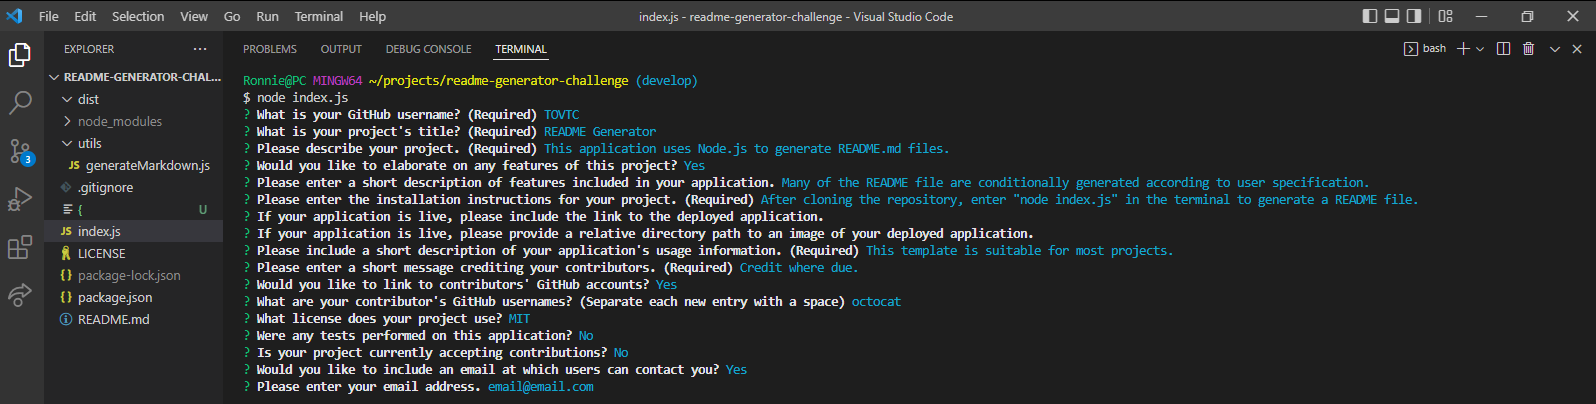
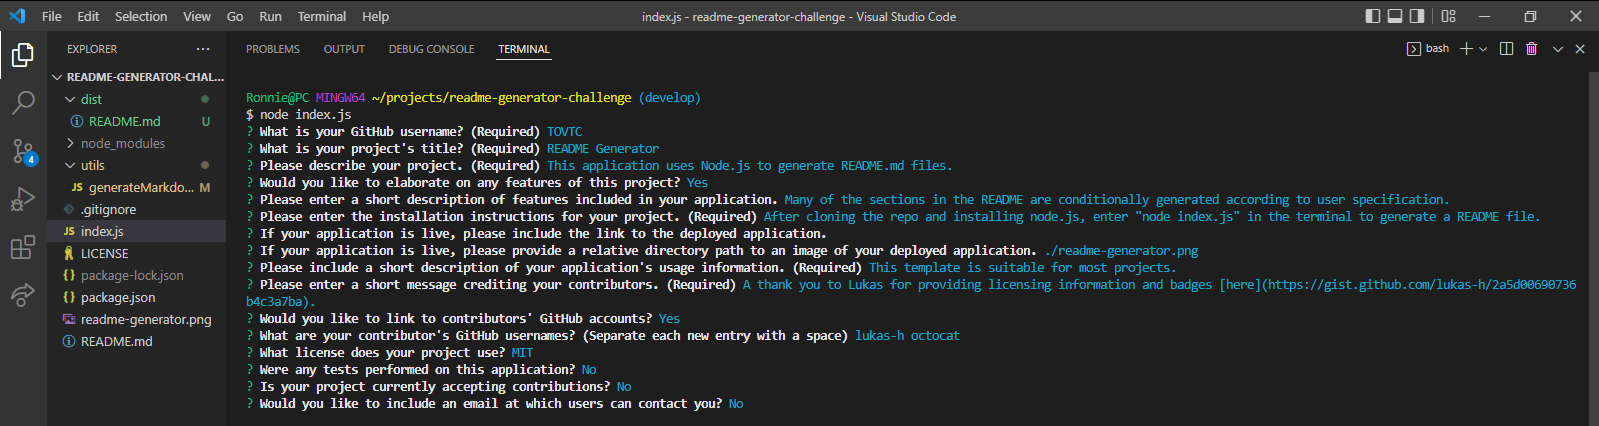
touchups before code streamlining

diff --git a/index.js b/index.js
@@ -1,25 +1,3 @@
-// const dummy = {
-//     username: "username",
-//     title: "project title",
-//     description: "project description",
-//     confirmFeatures: false,
-//     //features: "features",
-//     install: "installation instructions",
-//     deployedLink: "",
-//     imagePath: "",
-//     usage: "usage",
-//     credit: "a message crediting my contributors",
-//     confirmCreditLink: false,
-//     //creditGitHub: "a b    c d e  f",
-//     license: "MIT",
-//     confirmTest: false,
-//     //test: "tests conducted",
-//     confirmContribution: false,
-//     //contribution: "how to contribute",
-//     confirmContact: false,
-//     //contact: "email@email.com"
-// }
-
 // TODO: Include packages needed for this application
 const inquirer = require("inquirer");
 const fs = require("fs");
@@ -258,13 +236,10 @@ const questions = [
 function writeToFile(data) {
     return new Promise((resolve, reject) => {
         fs.writeFile('./dist/README.md', data, err => {
-        // if there's an error, reject the Promise and send the error to the Promise's '.catch()' method
             if (err) {
                 reject(err);
-                // return out of the function here to make sure the Promise doesn't accidentally execute the resolve() function as well
                 return;
             }
-            // if everything went well, resolve the Promise and send the successful data to the '.then()' method
             resolve({
                 ok: true,
                 message: "File created!"
@@ -290,11 +265,3 @@ init()
     .catch(err => {
         console.log(err);
     });
-
-// console.log(generateMarkdown(dummy));
-
-
-
-// - separate functions into separate files/packages
-// - streamline code
-// - walkthrough video

diff --git a/utils/generateMarkdown.js b/utils/generateMarkdown.js
@@ -216,8 +216,8 @@ function renderImage({title, imagePath}){
 function generateMarkdown(data) {
   return `
   # ${data.title}
-  ${data.description}</br>
-  ${renderLicenseBadge(data)}
+  ${renderLicenseBadge(data)}</br>
+  ${data.description}
   
   ## Table of Contents
   ${tocFeatures(data)}

diff --git a/README.md b/README.md
@@ -25,8 +25,9 @@
   ## Authors & Acknowledgements<a name="acknowledgements"></a>
   Special thanks to the following contributors:</br>
     [octocat](https://github.com/octocat)</br>
+    [lukas-h](https://github.com/lukas-h)</br>
     
-  A thank you to Lukas for providing licensing information and badges [here](https://gist.github.com/lukas-h/2a5d00690736b4c3a7ba)
+  A thank you to Lukas for providing licensing information and badges [here](https://gist.github.com/lukas-h/2a5d00690736b4c3a7ba).
   
   Made by [TOVTC](https://github.com/TOVTC)
   
@@ -34,4 +35,4 @@
   This application uses the MIT License. For more information regarding usage, please visit [this link]("https://opensource.org/licenses/MIT")
 
   ## Questions?<a name="questions"></a>
-  Contact repository author via email at [veronica.tc.to@outlook.com](mailto:veronica.tc.to@outlook.com)
+  Contact repository author via [GitHub](https://github.com/TOVTC)
